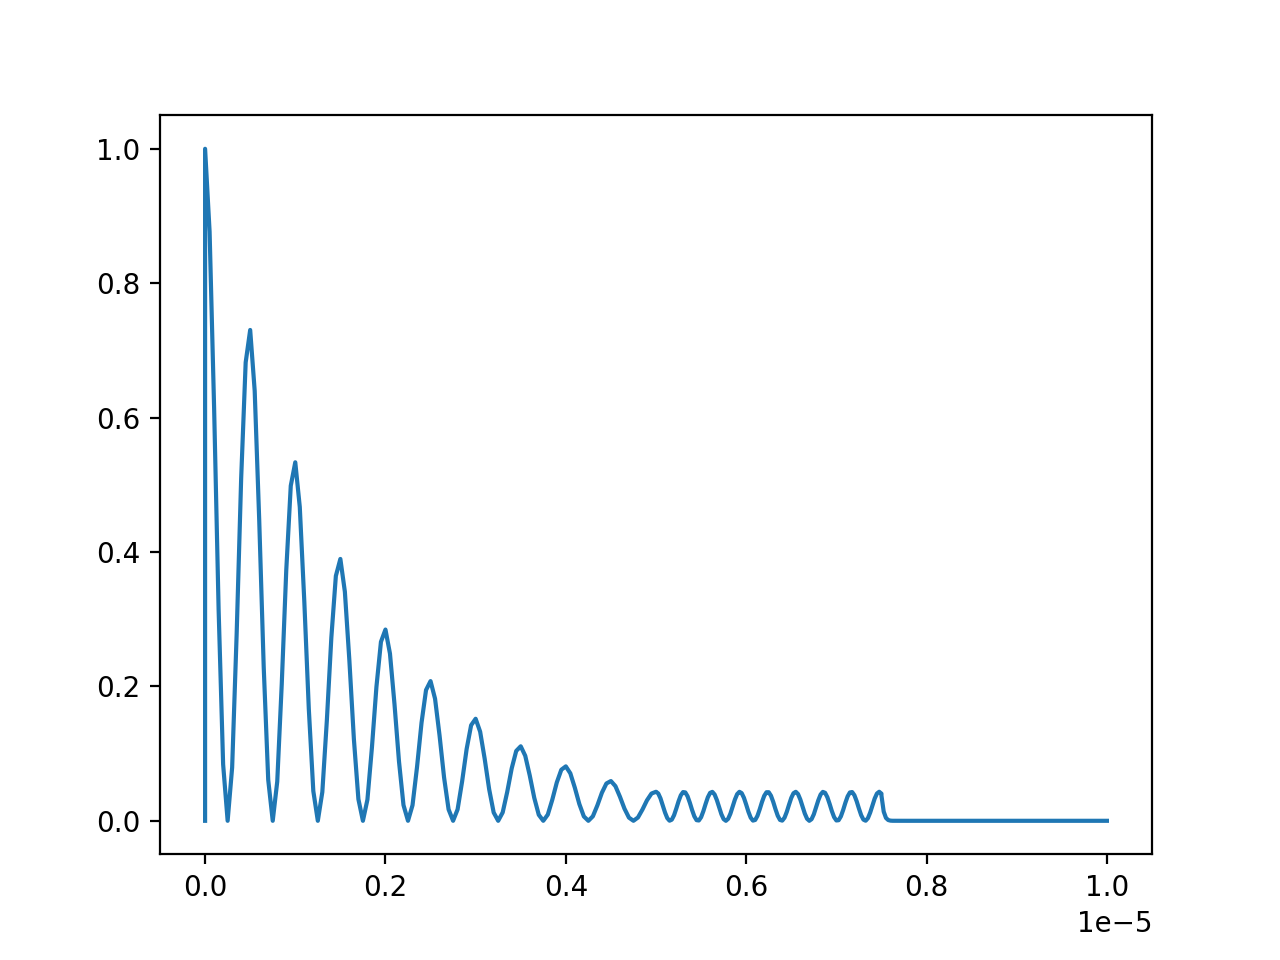
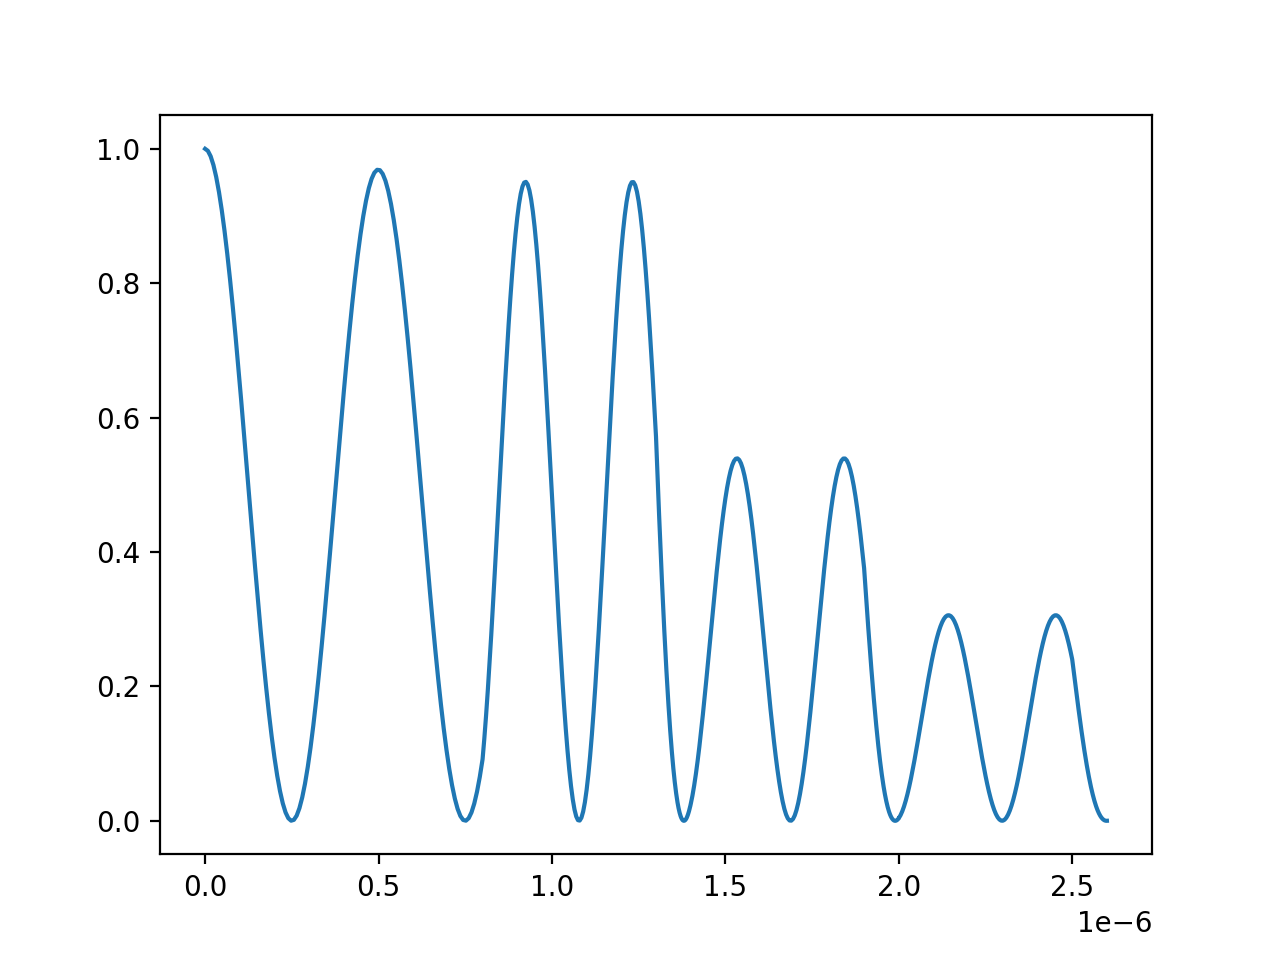
Fixed domain boundary bugs

diff --git a/Physics/FiberModeling/emissivity.py b/Physics/FiberModeling/emissivity.py
@@ -8,31 +8,39 @@ import numpy as np
 import matplotlib.pyplot as plt
 plt.rcParams['figure.dpi']=200 # setting the dpi of outputted graphs.
 
-
-# Field strength E = E_0.sin(k.x - omega.t)
+"""
+Constants and conversion functions
+"""
+c = 299792458
 
 # k = 2pi/lambda, lamda changes in a material if f stays constant
 # f = v/lambda
 # v = c/n
-
-E_0 = 1
-
-c = 3*10**8
 
 def get_lambda_n(f, n, c):
     v = c/n
     lambda_n = v/f
     return lambda_n
 
-Air_n = 1.0003
-Air_k = 0.05
+"""
+Material Constants
+"""
+Air_n = 1.00027417
+Air_k = 0.005
 
 Al2O3_1um_n = 1.6171
 Al2O3_1um_k = 0
 
 TiN_1um_n = 1.7547
 TiN_1um_k = 3.4512
+TiN_1um_k = 0.4512
 
+"""
+Input Conditions
+"""
+Amplitude = 1               # Constant amplitude of intitial signal. 
+lambda_vacuum = 1*10**-6    # Desired vacuum wavelength of light.
+nx = 101                    # Resolution for each domain.
 
 # Define regions of material by defining only:
 # [0] = their widths <m> (to then call them in order to fill the space)
@@ -41,26 +49,22 @@ TiN_1um_k = 3.4512
 
 Domains = []
 
-Air_L = 5*10**-6
+Air_L = 0.8*10**-6
 Air = [Air_L, Air_n, Air_k]
 Domains.append(Air)
 
-Film1_L = 2.5*10**-6
+Film1_L = .5*10**-6
 Film1 = [Film1_L, Al2O3_1um_n, Al2O3_1um_k]
 Domains.append(Film1)
 
-Film2_L = 2.5*10**-6
+Film2_L = .1*10**-6
 Film2 = [Film2_L, TiN_1um_n, TiN_1um_k]
 Domains.append(Film2)
 
-print(Domains)
-
-
-lambda_vacuum = 1*10**-6
-
-
-f = c/lambda_vacuum
-
+Domains.append(Film1)
+Domains.append(Film2)
+Domains.append(Film1)
+Domains.append(Film2)
 
 
 # Intensity loss:
@@ -69,14 +73,14 @@ def get_I_absorption(k_n, lambda_vac, x_i):  # This is a different k (extinction
     I_absorption = np.exp(-alpha*x_i)
     return I_absorption
 
+E_0 = Amplitude
+f = c/lambda_vacuum
 
-nx = 101    # Resolution for each domain
 x_all = np.zeros(1)
 E_all = np.zeros(1)
 I_all = np.zeros(1)
 x_starts = [0]
 phi_starts = [0]
-
 d=0
 for domain in Domains:
     lambda_n = get_lambda_n(f, domain[1],c)
@@ -84,28 +88,32 @@ for domain in Domains:
     x_max = domain[0]
     x = np.linspace(x_min,x_max, nx)
 
+    hx = (x_max - x_min)/(nx-1)
     x_starts.append(x_max+x_starts[d]) # sets the start of the next values of x in the x_all list
-    #print(x+x_starts[d])
+    
     x_all = np.append(x_all, x+x_starts[d])
-    
-    phi_starts.append(x_max/lambda_n)
-    
-    
     
     E = np.zeros(nx)
     I = np.zeros(nx)
     for  i in range(nx):
-        E_vac = E_0*np.cos(2*np.pi/lambda_n*x[i]-2*np.pi*phi_starts[d])         # E(x) = E_0.cos(kx) = I_0
+        E_vac = E_0*np.cos(2*np.pi/lambda_n*x[i]+2*np.pi*phi_starts[d])         # E(x) = E_0.cos(kx) = sqrt(I_0)
         E[i] = E_vac*np.sqrt(get_I_absorption(domain[2], lambda_vacuum, x[i]))  # I(x) = I_0.e^(-alpha.x)
         I[i] = E[i]**2
+    
+    
     E_all = np.append(E_all, E)
     I_all = np.append(I_all, I)
-    E_0 = E[nx-1]
+    E_0 = E_0*np.sqrt(get_I_absorption(domain[2], lambda_vacuum, x[nx-1]))
+    phi_starts.append(phi_starts[d]+x_max/lambda_n)
     
-
+    
     d=d+1
 
-    
+E_all = np.delete(E_all, 0)
+I_all = np.delete(I_all, 0)
+x_all = np.delete(x_all, 0)
+
+
 plt.plot(x_all,E_all)
 
 plt.savefig('/workspaces/Projects/Physics/FiberModeling/outputE.png')
